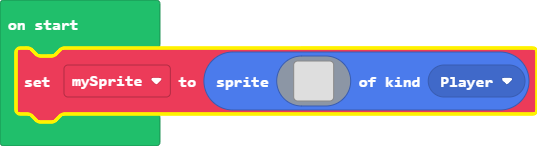
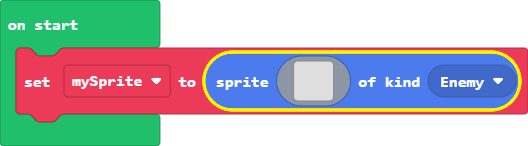
Update main.blocks, main.ts

Changed region(s): [[0.0, 0.0, 1.0, 1.0], [0.0, 0.137, 0.1515, 0.2192]]

diff --git a/main.ts b/main.ts
@@ -15,4 +15,4 @@ let mySprite = sprites.create(img`
     . . . . . . . . . . . . . . . . 
     . . . . . . . . . . . . . . . . 
     . . . . . . . . . . . . . . . . 
-    `, SpriteKind.Player)
+    `, SpriteKind.Enemy)
